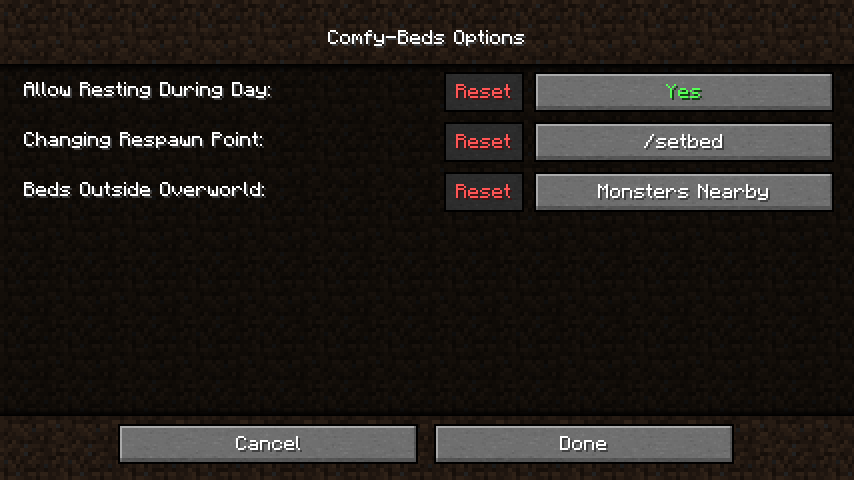
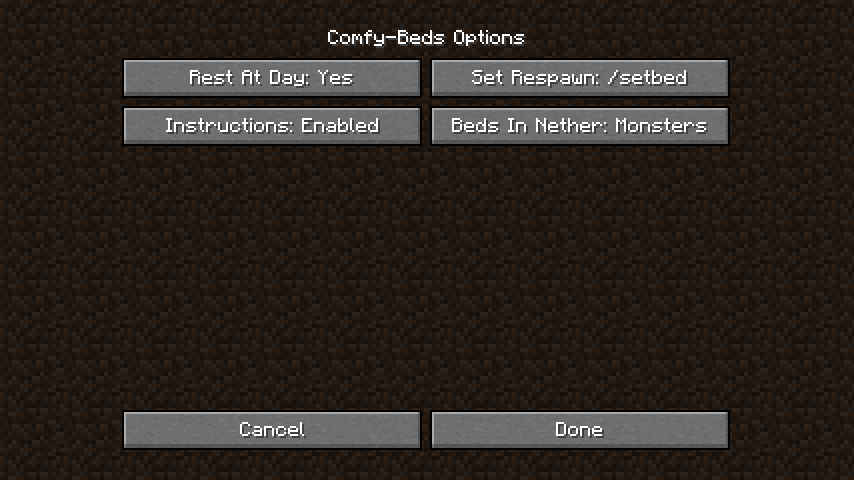
Updated the description, readme and screenshots

diff --git a/screenshots/README.md b/screenshots/README.md
@@ -14,6 +14,6 @@ This mod allows you to rest in other dimensions such as the Nether.
 ![Resting in other dimensions](https://raw.githubusercontent.com/MehradN/ComfyBeds/master/screenshots/RestingInNether.png)
 
 ## Config Screen
-**Powered By Midnightlib**
+**Powered By MehradConfig**
 
 ![Config Screen](https://raw.githubusercontent.com/MehradN/ComfyBeds/master/screenshots/ConfigScreen.png)

diff --git a/README.md b/README.md
@@ -1,5 +1,5 @@
 # Comfy-Beds
-This Minecraft mod adds some quality-of-life features to beds.
+Comfy-Beds adds some quality-of-life features to beds in Minecraft.
 - Resting during the day
 - Disabling bed explosion
 - Resting outside of Overworld
